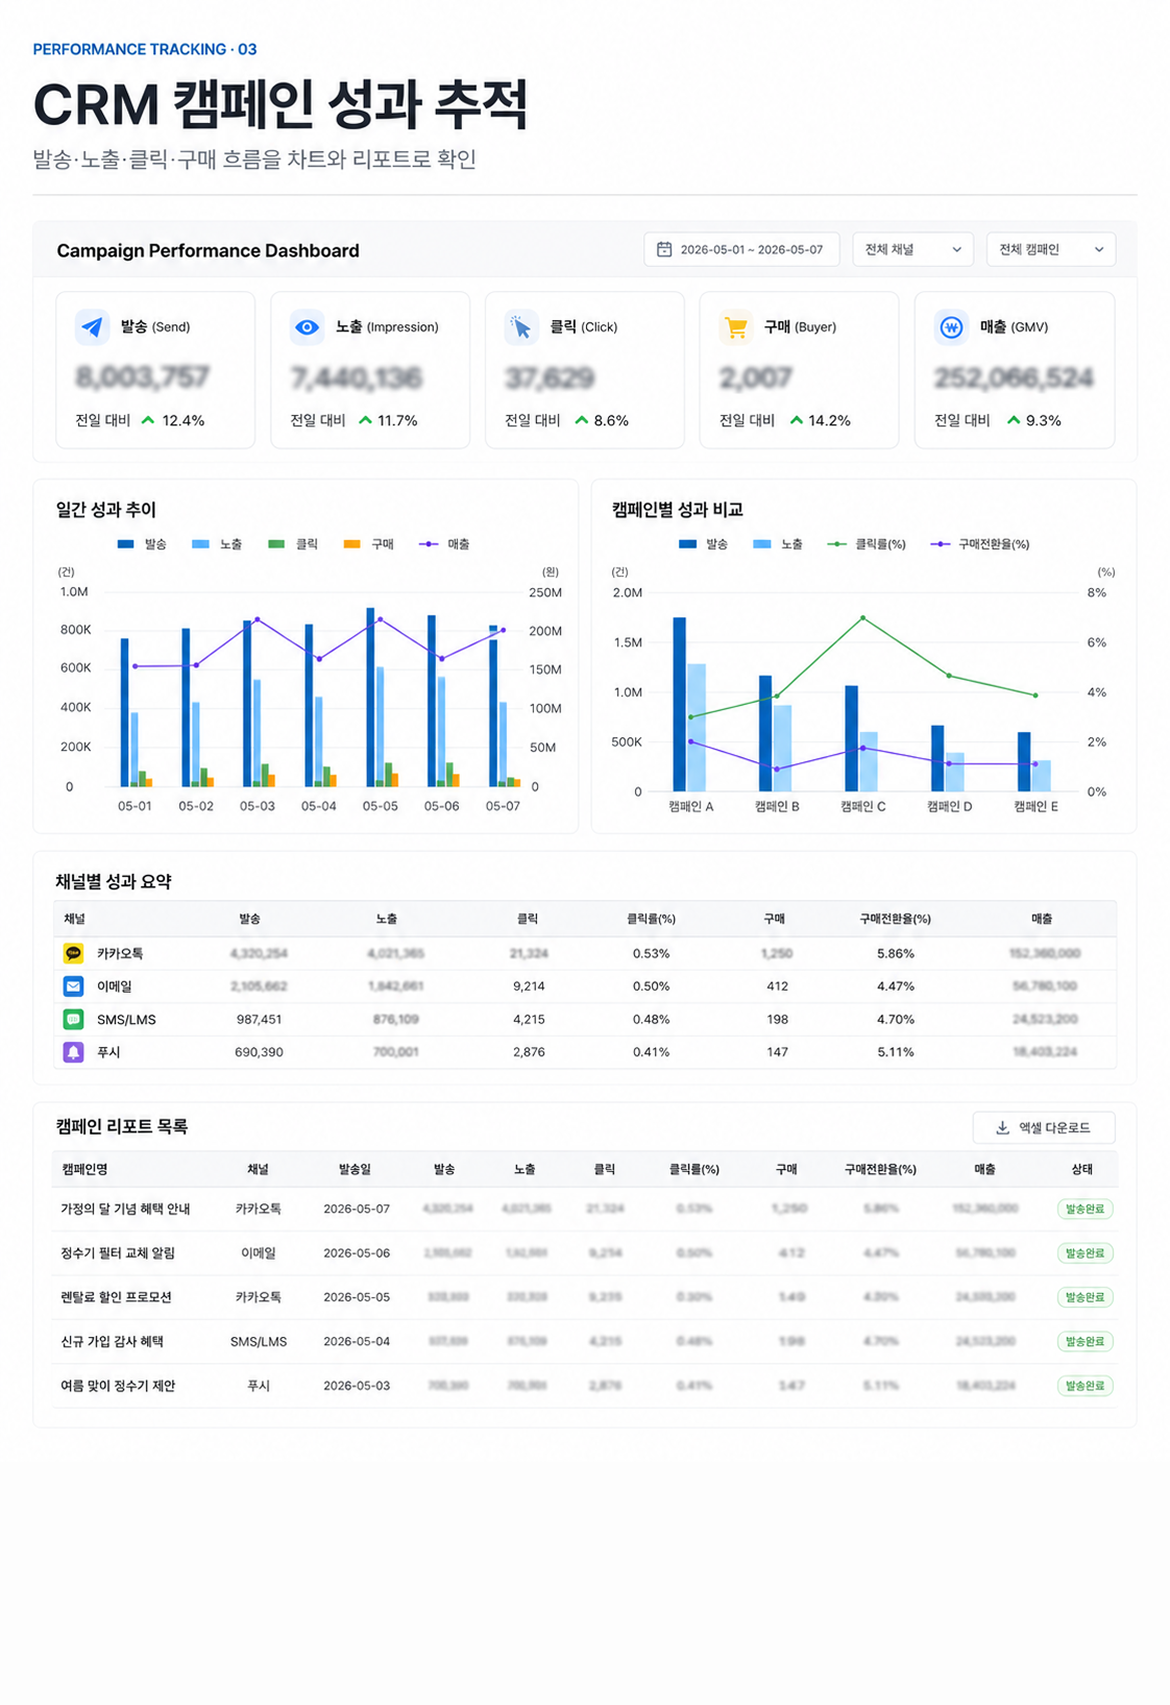
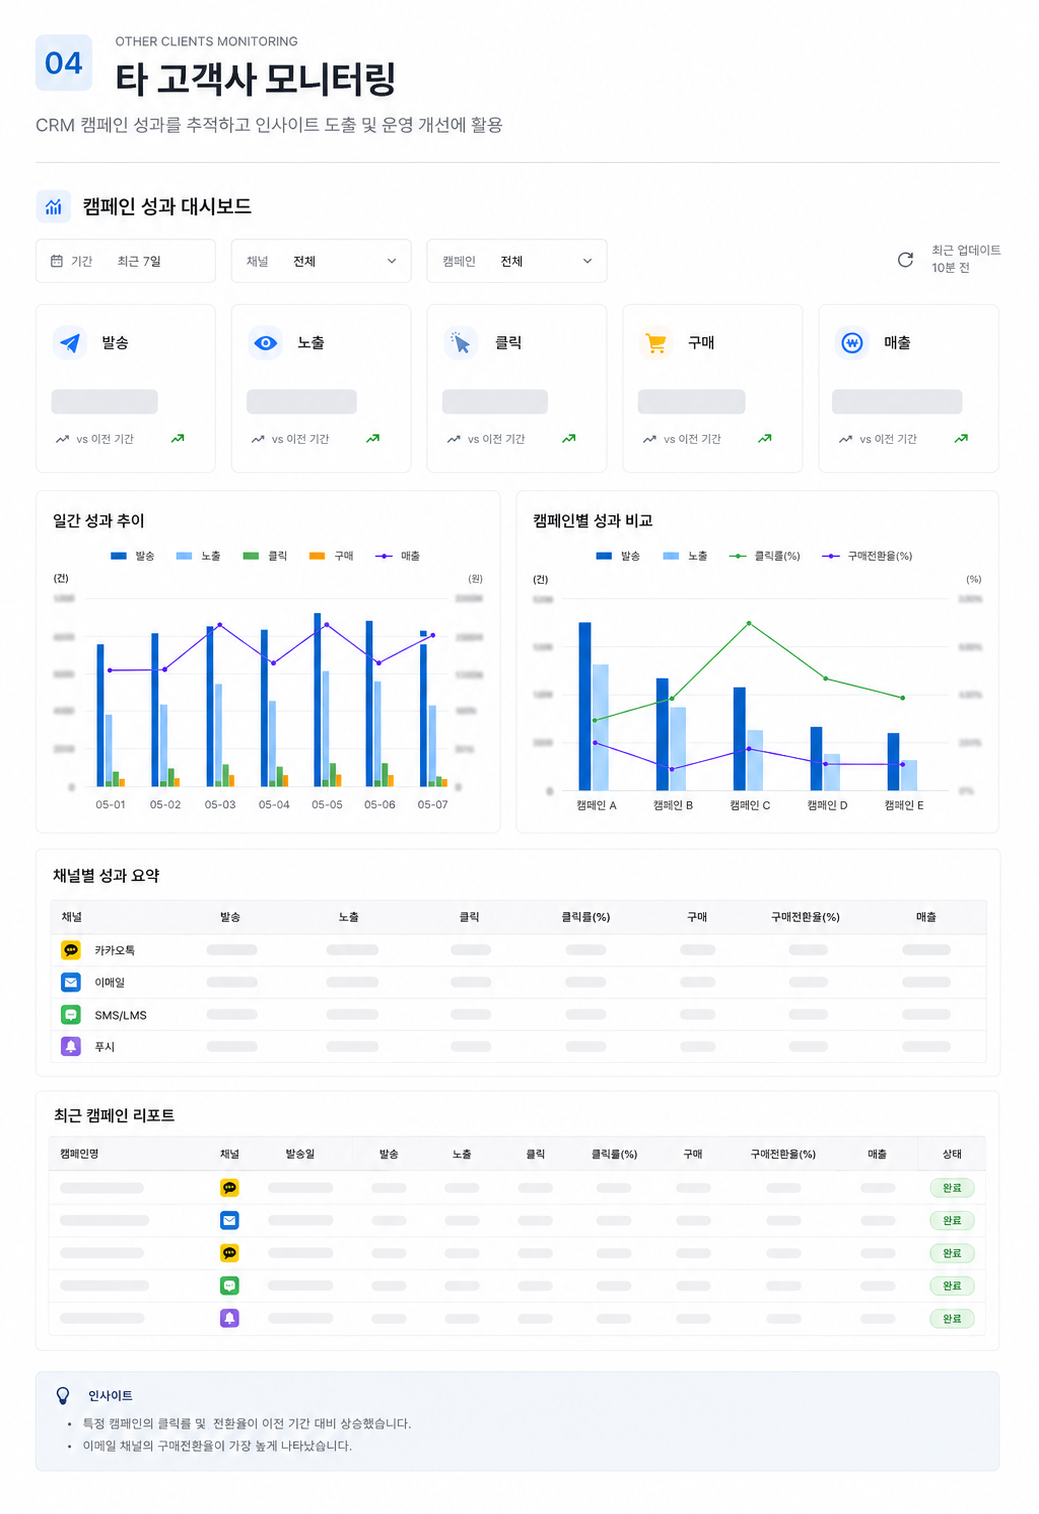
Polish portfolio copy

diff --git a/parts/portfolio-shared.jsx b/parts/portfolio-shared.jsx
@@ -172,9 +172,7 @@ const PROJECTS = [
         label: '동일 모수 대비 매출 증가',
         caption: '여성 35~59세 타겟 전환 후',
       },
-      before: { copy: '남성 중심 타겟 · 푸른색 배너 톤', primary: '1.0x', secondary: '기존 매출' },
-      after: { copy: '여성 35~59세 타겟 · 부드러운 배너 톤', primary: '2.0x', secondary: '동일 모수 매출' },
-      note: '이후 분홍 테마 홍보로 확장되었습니다.',
+      note: '타겟 전환 이후 분홍 테마 홍보로 확장되었습니다.',
     },
     channels: ['KakaoTalk Plus Friend', 'Brand Message', 'Target Proposal'],
     baseline: '브랜드별 메시지 방향 제안',
@@ -207,11 +205,7 @@ const PROJECTS = [
         label: '단일 앱푸시 발송 규모',
         caption: '빅스마일데이 발송 세팅 · QA · 리포트 확인',
       },
-      beforeLabel: 'Before',
-      afterLabel: 'Big Smile Day',
-      before: { copy: '일반 프로모션 캠페인 기준', primary: '[기준 GMV]', secondary: '[기준 구매자]' },
-      after: { copy: '빅스마일데이 대형 행사 발송 기준', primary: '[행사 GMV]', secondary: '[행사 구매자]' },
-      note: '매출 규모는 공개 가능한 범위로 익명화해 입력합니다.',
+      note: '대형 행사 발송 전후의 운영 품질과 성과 리포트를 함께 관리했습니다.',
     },
     channels: ['App Push', 'Big Promotion', 'QA Checklist'],
     baseline: '대규모 발송 운영 안정성',
@@ -244,10 +238,6 @@ const PROJECTS = [
         label: '대표 캠페인 CTR 차이',
         caption: 'Audience 대비 Scenario 클릭 반응',
       },
-      beforeLabel: 'Audience',
-      afterLabel: 'Scenario',
-      before: { copy: 'Audience 캠페인 기준 CTR', primary: '1.0x', secondary: 'CTR 기준' },
-      after: { copy: 'Scenario 캠페인 CTR', primary: '2.7x', secondary: 'Audience 대비' },
       note: '대표 사례로 Scenario 캠페인의 CTR이 Audience 대비 2.7배 높았습니다.',
     },
     channels: ['Performance Report', 'Message Structure', 'Insight'],
@@ -281,11 +271,7 @@ const PROJECTS = [
         label: '브랜드 CRM 메시지 비교',
         caption: '혜택 표현 · CTA · 톤앤매너 패턴 정리',
       },
-      beforeLabel: 'Before',
-      afterLabel: 'After',
-      before: { copy: '브랜드별 메시지를 개별 캡처로만 확인', primary: '수집', secondary: '개별 메시지' },
-      after: { copy: '혜택 표현, CTA, 톤을 비교 가능한 보드로 정리', primary: '정리', secondary: '패턴/가설' },
-      note: '개인 수신 정보와 쿠폰번호는 블러 처리합니다.',
+      note: '다양한 브랜드의 메시지 패턴을 다음 캠페인 가설로 연결했습니다.',
     },
     channels: ['Benchmarking', 'KakaoTalk', 'App Push'],
     baseline: '브랜드별 CRM 패턴 비교',
@@ -539,7 +525,7 @@ function Reveal({ children, delay = 0, y = 14, as: Tag = 'div', style, ...rest }
   );
 }
 
-// Photo placeholder — striped, with mono explainer text.
+// Reusable visual slot.
 function PhotoSlot({ ratio = '4 / 5', label = 'Portrait — 인물 사진', radius = 16, accent = '#c9a87a', bg = '#f3ead8' }) {
   return (
     <div style={{

diff --git a/parts/portfolio-warm.jsx b/parts/portfolio-warm.jsx
@@ -323,7 +323,7 @@ const PortfolioWarm = ({ palette = 'ivoryCoral' }) => {
               <div style={secNum}>02 — Featured Work</div>
               <h2 style={secTitle}>메시지를 보내기 전과 후를 함께 봅니다.</h2>
             </div>
-            <p style={secLead}>각 케이스는 문제, 접근, 실행, 결과, 학습이 보이도록 구성했습니다. 실제 수치와 스크린샷은 확인 후 교체합니다.</p>
+            <p style={secLead}>메시지 방향, 발송 운영, 성과 추적, 레퍼런스 정리까지 CRM 캠페인의 흐름이 보이도록 구성했습니다.</p>
           </div>
         </div>
 
@@ -392,7 +392,7 @@ const PortfolioWarm = ({ palette = 'ivoryCoral' }) => {
             <div style={secNum}>04 — Career</div>
               <h2 style={secTitle}>CRM 운영과 콘텐츠 경험이<br/>같은 방향으로 쌓였습니다.</h2>
             </div>
-          <p style={secLead}>실제 경력과 확인된 경험 중심으로 정리했습니다. 내부 정보와 미확인 수치는 노출하지 않습니다.</p>
+          <p style={secLead}>CRM 운영 경험과 콘텐츠 마케팅 경험을 고객 반응을 읽는 역량으로 연결해 정리했습니다.</p>
         </div>
         <div>
           {D.CAREER.map((job, i) => (
@@ -470,7 +470,7 @@ const PortfolioWarm = ({ palette = 'ivoryCoral' }) => {
             }}>
               <div style={{...secNum, fontSize: 13}}>Education · Certification</div>
               <div style={{fontSize: 12.5, color: c.faint, lineHeight: 1.6}}>
-                자격증은 실제 보유 여부와 연도 확인 후 추가합니다.
+                실무 도구 이해를 보완한 교육 이력입니다.
               </div>
             </div>
             <div style={{
@@ -1015,8 +1015,6 @@ function CaseCard({ c, project, index, isMobile }) {
 }
 
 // Phone-frame screenshot — neutral, no per-card hue.
-// TODO: Replace this illustrated placeholder with anonymized screenshots under
-// /assets/portfolio once the final proof images are prepared.
 function PhoneScreenshot({ c, project, index, message }) {
   const channel = project.channels[0] || 'Kakao 알림톡';
   const titles = ['Water Purifier CRM', 'Big Smile Day Push', 'Performance Tracking', 'CRM Monitoring Board'];
